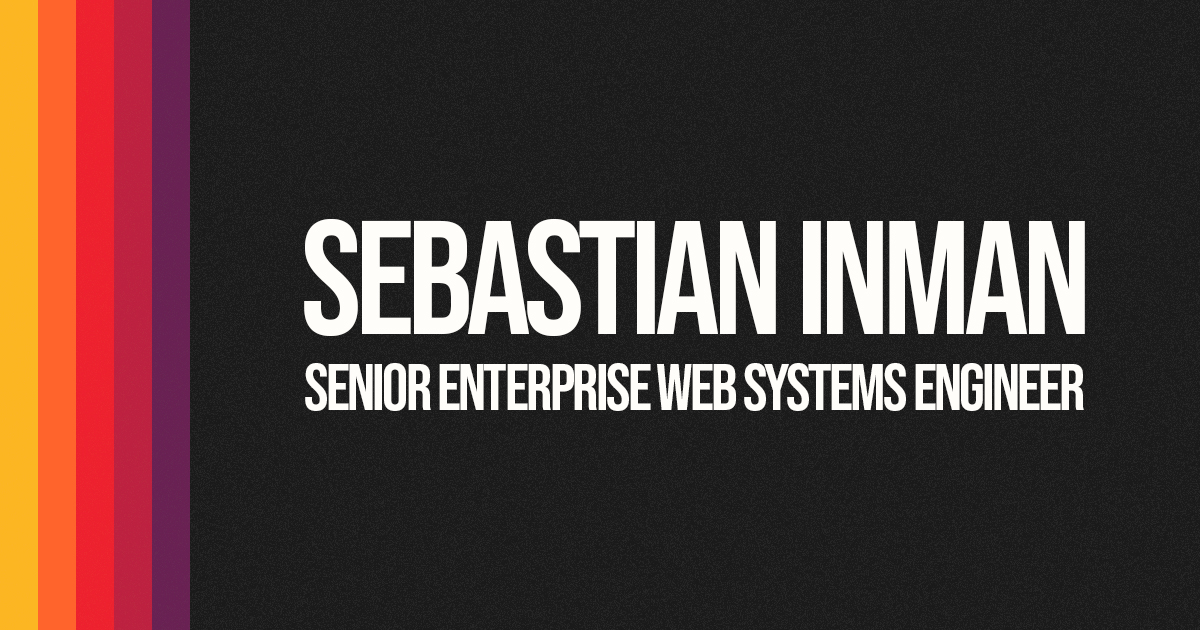
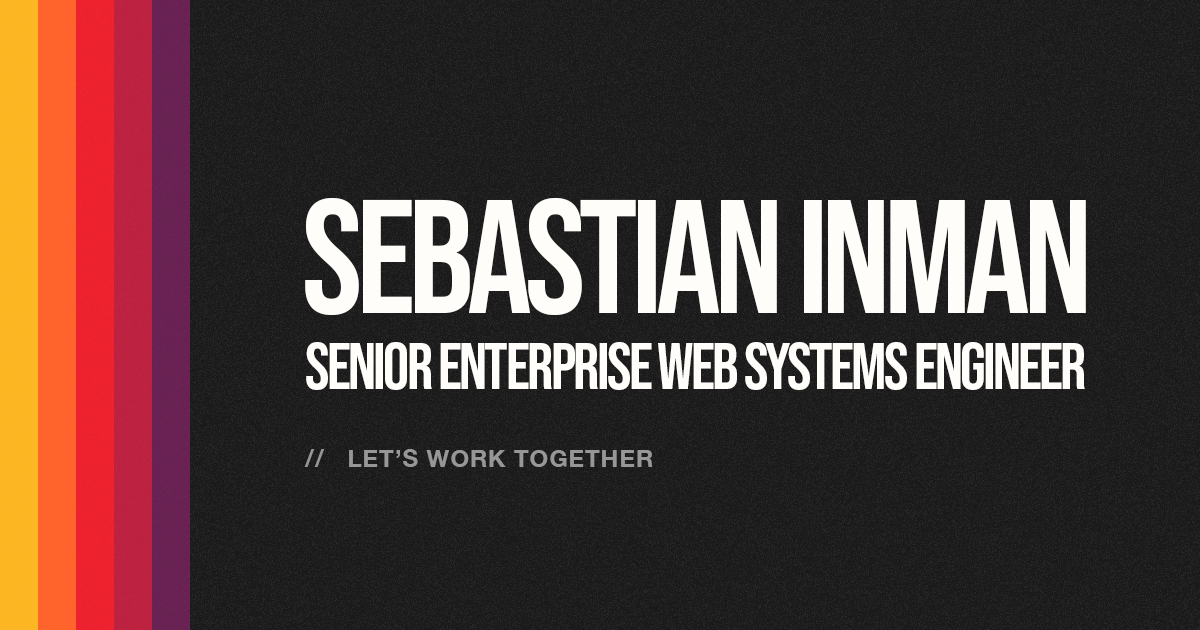
chore: update og images and add linkedin meta

Changed region(s): [[0.2467, 0.3016, 0.925, 0.6635], [0.2467, 0.6937, 0.555, 0.754]]

diff --git a/app/layout.tsx b/app/layout.tsx
@@ -25,6 +25,12 @@ export default function RootLayout({
         <meta name="apple-mobile-web-app-title" content="Sebastian Inman" />
         <link rel="manifest" href="/site.webmanifest" />
         <meta name="theme-color" content="#ffffff" />
+        <meta prefix="og: http://ogp.me/ns#" property="og:title" content="Sebastian Inman | Senior Enterprise Web Systems Engineer" />
+        <meta prefix="og: http://ogp.me/ns#" property="og:description" content="Senior engineer focused on enterprise web architecture, scalable design systems, and TypeScript platforms that bring order to complex products." />
+        <meta prefix="og: http://ogp.me/ns#" property="og:type" content="website" />
+        <meta prefix="og: http://ogp.me/ns#" property="og:image" content="/linkedin.jpg" />
+        <meta prefix="og: http://ogp.me/ns#" property="og:url" content="https://www.sebastiancodes.com" />
+
         <link
           rel="preload"
           href="/fonts/BebasNeue-Regular.woff2"
